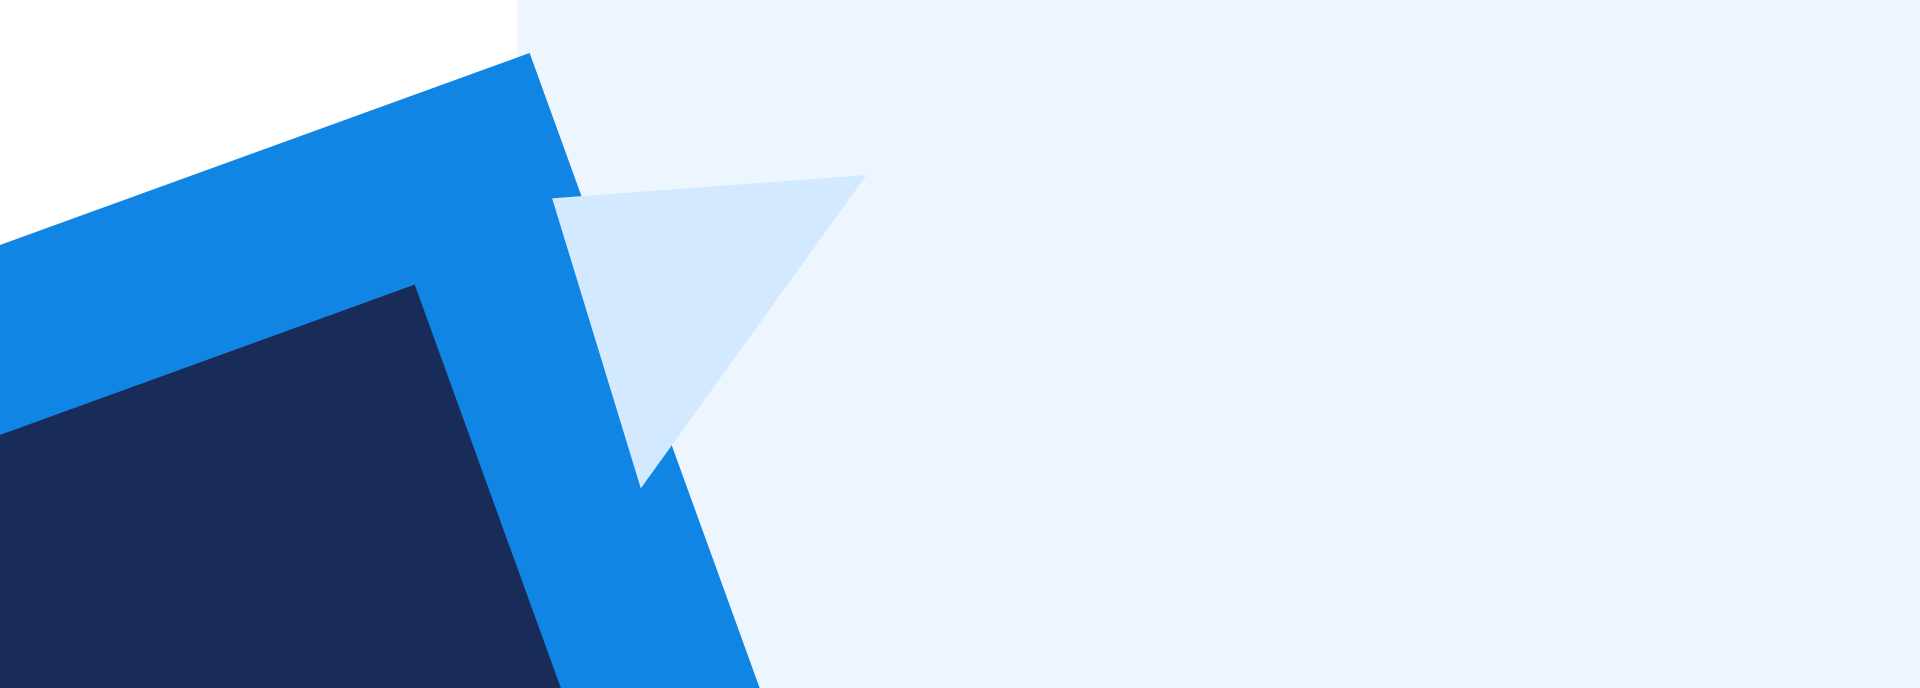
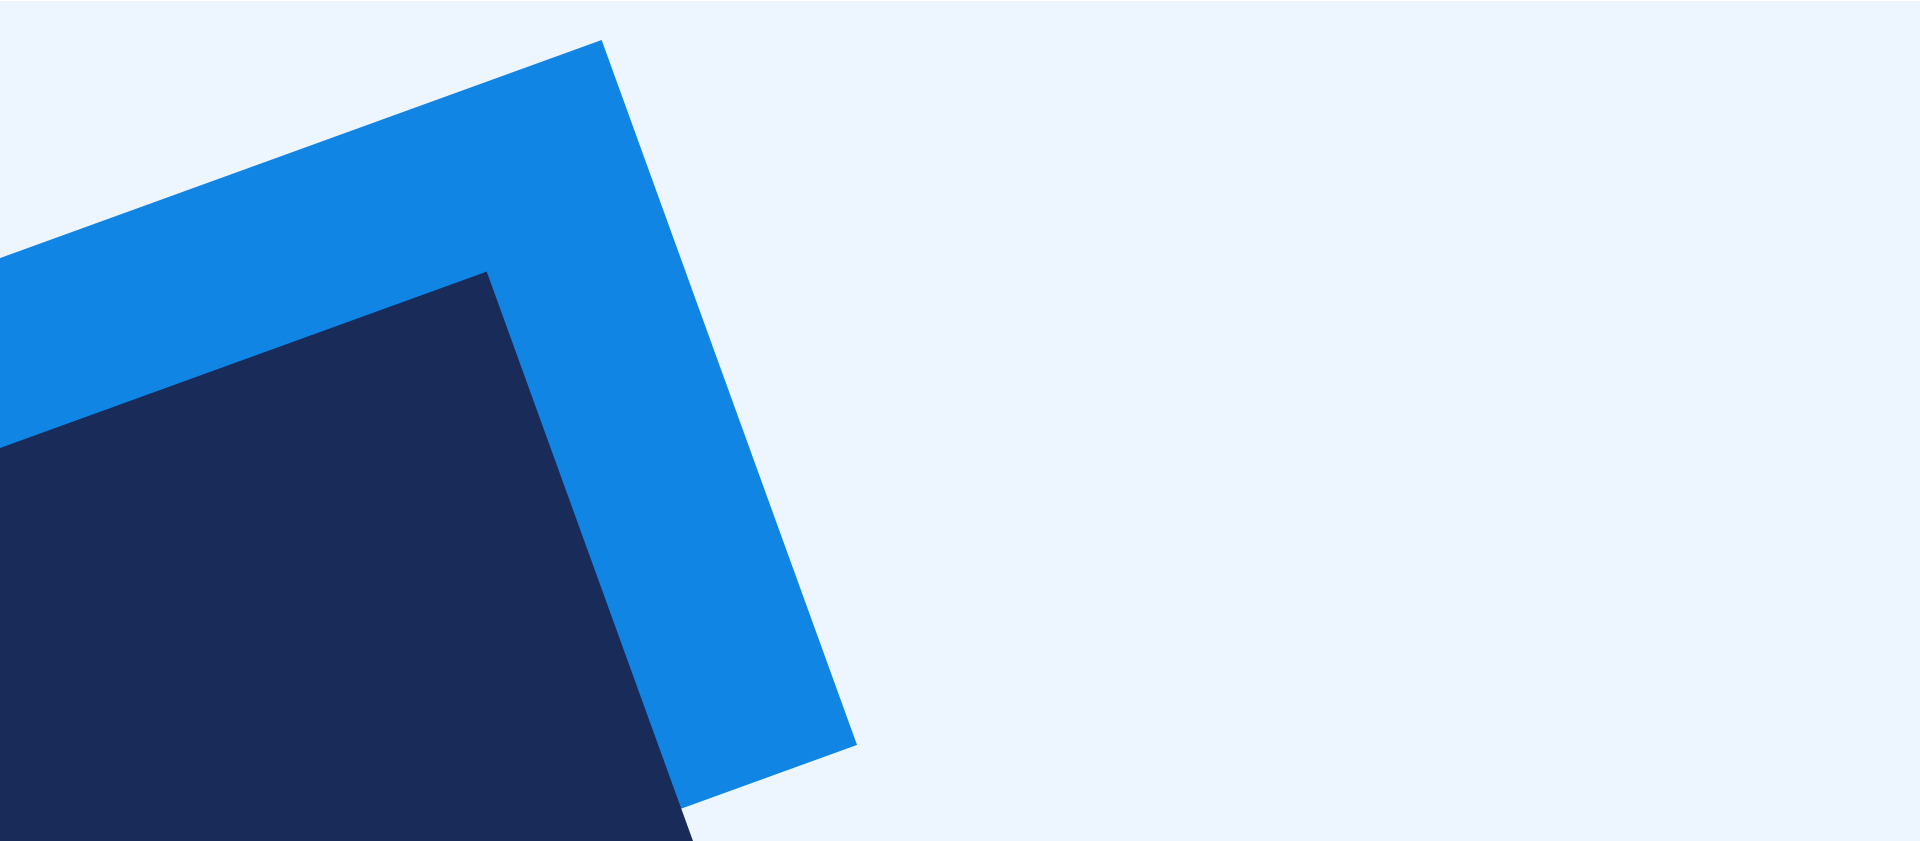
Add 22

Changed region(s): [[0.0, 0.0305, 0.4688, 1.0], [0.0, 0.1221, 0.2188, 0.3663], [0.2188, 0.0916, 0.25, 0.1221]]

diff --git a/css/style.css b/css/style.css
@@ -856,6 +856,7 @@ filter: progid:DXImageTransform.Microsoft.gradient( startColorstr='#0a2090', end
     background-repeat: no-repeat;
     height: 400px;
     left: -98px;
+    background-size: cover;
 }
 
 .title-clients {
@@ -1040,6 +1041,7 @@ filter: progid:DXImageTransform.Microsoft.gradient( startColorstr='#0a2090', end
     /* background-size: cover; */
     width: 1920px;
     height: 845px;
+    margin-bottom: -17px;
 } 
 
 .pt-title {
@@ -1238,4 +1240,162 @@ filter: progid:DXImageTransform.Microsoft.gradient( startColorstr='#0a2090', end
 
 .box-team-item .btn-br:hover span {
     background-position: -239px -21px;
+}
+
+/* блок page-form */
+
+.page-form-bg {
+    background-image: url(../img/backgroundsix.png);
+    background-repeat: no-repeat;
+    width: 1920px;
+    height: 840px;
+    margin-bottom: -17px;
+}
+
+.pg-img {
+    background-image: url(../img/st.png);
+    background-repeat: no-repeat;
+    height: 361px;
+    top: 243px;
+    left: 403px;
+    position: relative;
+}
+
+.pg-form-flex {
+    display: flex;
+}
+
+.pg-form-flex>div {
+    flex-basis: 55%;
+}
+
+.pg-form-h2 {
+    font-size: 50px;
+    position: relative;
+    width: 520px;
+    top: 71px;
+    left: -156px;
+    letter-spacing: -1.5px;
+}
+
+.form {
+    width: 300px;
+    position: relative;
+    top: 241px;
+    left: -671px;
+
+}
+
+.form-elem {
+    border: 2px solid #dce4ec;
+    border-radius: 30px;
+    margin-bottom: 26px;
+}
+
+.form>input {
+    padding: 23px 297px 23px 36px;
+    font-size: 14px;
+}
+
+.form-messange {
+    padding: 21px 154px;
+    border: 2px solid #dce4ec;
+    border-radius: 30px;
+    margin-bottom: 26px;
+}
+
+.form>textarea {
+    padding: 23px 299px 98px 37px;
+    font-size: 14px;
+    margin-bottom: 35px;
+}
+
+.user {
+    position: relative;
+    background-image: url(../img/user.png);
+    background-repeat: no-repeat;
+    height: 15px;
+    top: 69px;
+    right: -460px;
+}
+
+.messenge {
+    position: relative;
+    background-image: url(../img/messenge.png);
+    background-repeat: no-repeat;
+    height: 15px;
+    top: 147px;
+    right: -459px;
+}
+
+.pen {
+    position: relative;
+    background-image: url(../img/pen.png);
+    background-repeat: no-repeat;
+    height: 15px;
+    top: 220px;
+    right: -459px;
+}
+
+/* блок footer */
+
+.footer {
+    background-color: #192b59;
+    margin-bottom: -18px;
+}
+
+.social {
+    list-style-type: none;
+    justify-content: space-around;
+    display: flex;
+}
+
+.footer-txt {
+    color: #979cc2;
+}
+
+.footer-fb {
+    background-image: url(../img/footer-fb.png);
+    background-repeat: no-repeat;
+    height: 37px;
+    width: 37px;
+    position: relative;
+}
+
+.footer-tw {
+    background-image: url(../img/footer-tw.png);
+    background-repeat: no-repeat;
+    height: 37px;
+    width: 37px;
+    position: relative;
+}
+
+.footer-be {
+    background-image: url(../img/footer-be.png);
+    background-repeat: no-repeat;
+    height: 37px;
+    width: 37px;
+    position: relative;
+}
+
+.footer-pint {
+    background-image: url(../img/footer-pint.png);
+    background-repeat: no-repeat;
+    height: 37px;
+    width: 37px;
+    position: relative;
+}
+
+.footer-f {
+    background-image: url(../img/footer-f.png);
+    background-repeat: no-repeat;
+    height: 37px;
+    width: 37px;
+    position: relative;
+}
+
+
+.footer-txt>a {
+    text-transform: uppercase;
+    color: #1085e4;
 }

diff --git a/index.html b/index.html
@@ -368,32 +368,39 @@
 </div>
 
 <div class="page-form">
-    <div>
-        <h2>Start Your Free Trail No Need Credit Card.</h2>
-        <form action="">
-            <input type="text" placeholder="Enter your name here">
-            <input type="text" placeholder="Enter your email here">
-            <textarea name="textMessage" placeholder="Enter your message here"></textarea>
+    <div class="page-form-bg">
+        <div class="pg-form-flex">
+        <div class="pg-img"></div>
+        <h2 class="title-h2 pg-form-h2">Start Your Free Trail No Need Credit Card.</h2>
+        <form action="" class="form">
+            <div class="user"></div>
+            <div class="messenge"></div>
+            <div class="pen"></div>
+            <input class="form-elem" type="text" placeholder="Enter your name here">
+            <input class="form-elem" type="text" placeholder="Enter your email here">
+            <textarea class="form-messange" name="textMessage" placeholder="Enter your message here"></textarea>
             <button type="submit" class="btn-primary btn-choosepl"><span>Submit now</span></button>
         </form>
+        
+        </div>
     </div>
 </div>
 
 <div class="footer">
-    <div>
-        <p>Made With Love & Copyright By - <a href="">limpon</a></p>
+    <div class="wrap social">
+        <p class="footer-txt">Made With Love & Copyright By - <a href="">limpon</a></p>
         <ul class="social">
-            <li><a href="" target="_blank"></a></li>
-            <li><a href="" target="_blank"></a></li>
-            <li><a href="" target="_blank"></a></li>
-            <li><a href="" target="_blank"></a></li>
-            <li><a href="" target="_blank"></a></li>
+            <li class="footer-fb"><a href="" target="_blank"></a></li>
+            <li class="footer-tw"><a href="" target="_blank"></a></li>
+            <li class="footer-be"><a href="" target="_blank"></a></li>
+            <li class="footer-pint"><a href="" target="_blank"></a></li>
+            <li class="footer-f"><a href="" target="_blank"></a></li>
         </ul>
     </div>
 </div>
 
 <script src="https://code.jquery.com/jquery-3.6.0.min.js" integrity="sha256-/xUj+3OJU5yExlq6GSYGSHk7tPXikynS7ogEvDej/m4=" crossorigin="anonymous"></script>
-<script>
+    <script>
     $(document).ready(function(){
       $(".btn-ricardo").click(function(){
         $(".btn-ricardo").hide();
@@ -401,7 +408,7 @@
       });
     });
     </script>
-<script>
+    <script>
     $(document).ready(function(){
         $(".btn-alberto").click(function(){
         $(".btn-alberto").hide();
@@ -409,7 +416,7 @@
         });
     });
     </script>
-<script>
+    <script>
     $(document).ready(function(){
         $(".btn-thomas").click(function(){
         $(".btn-thomas").hide();
